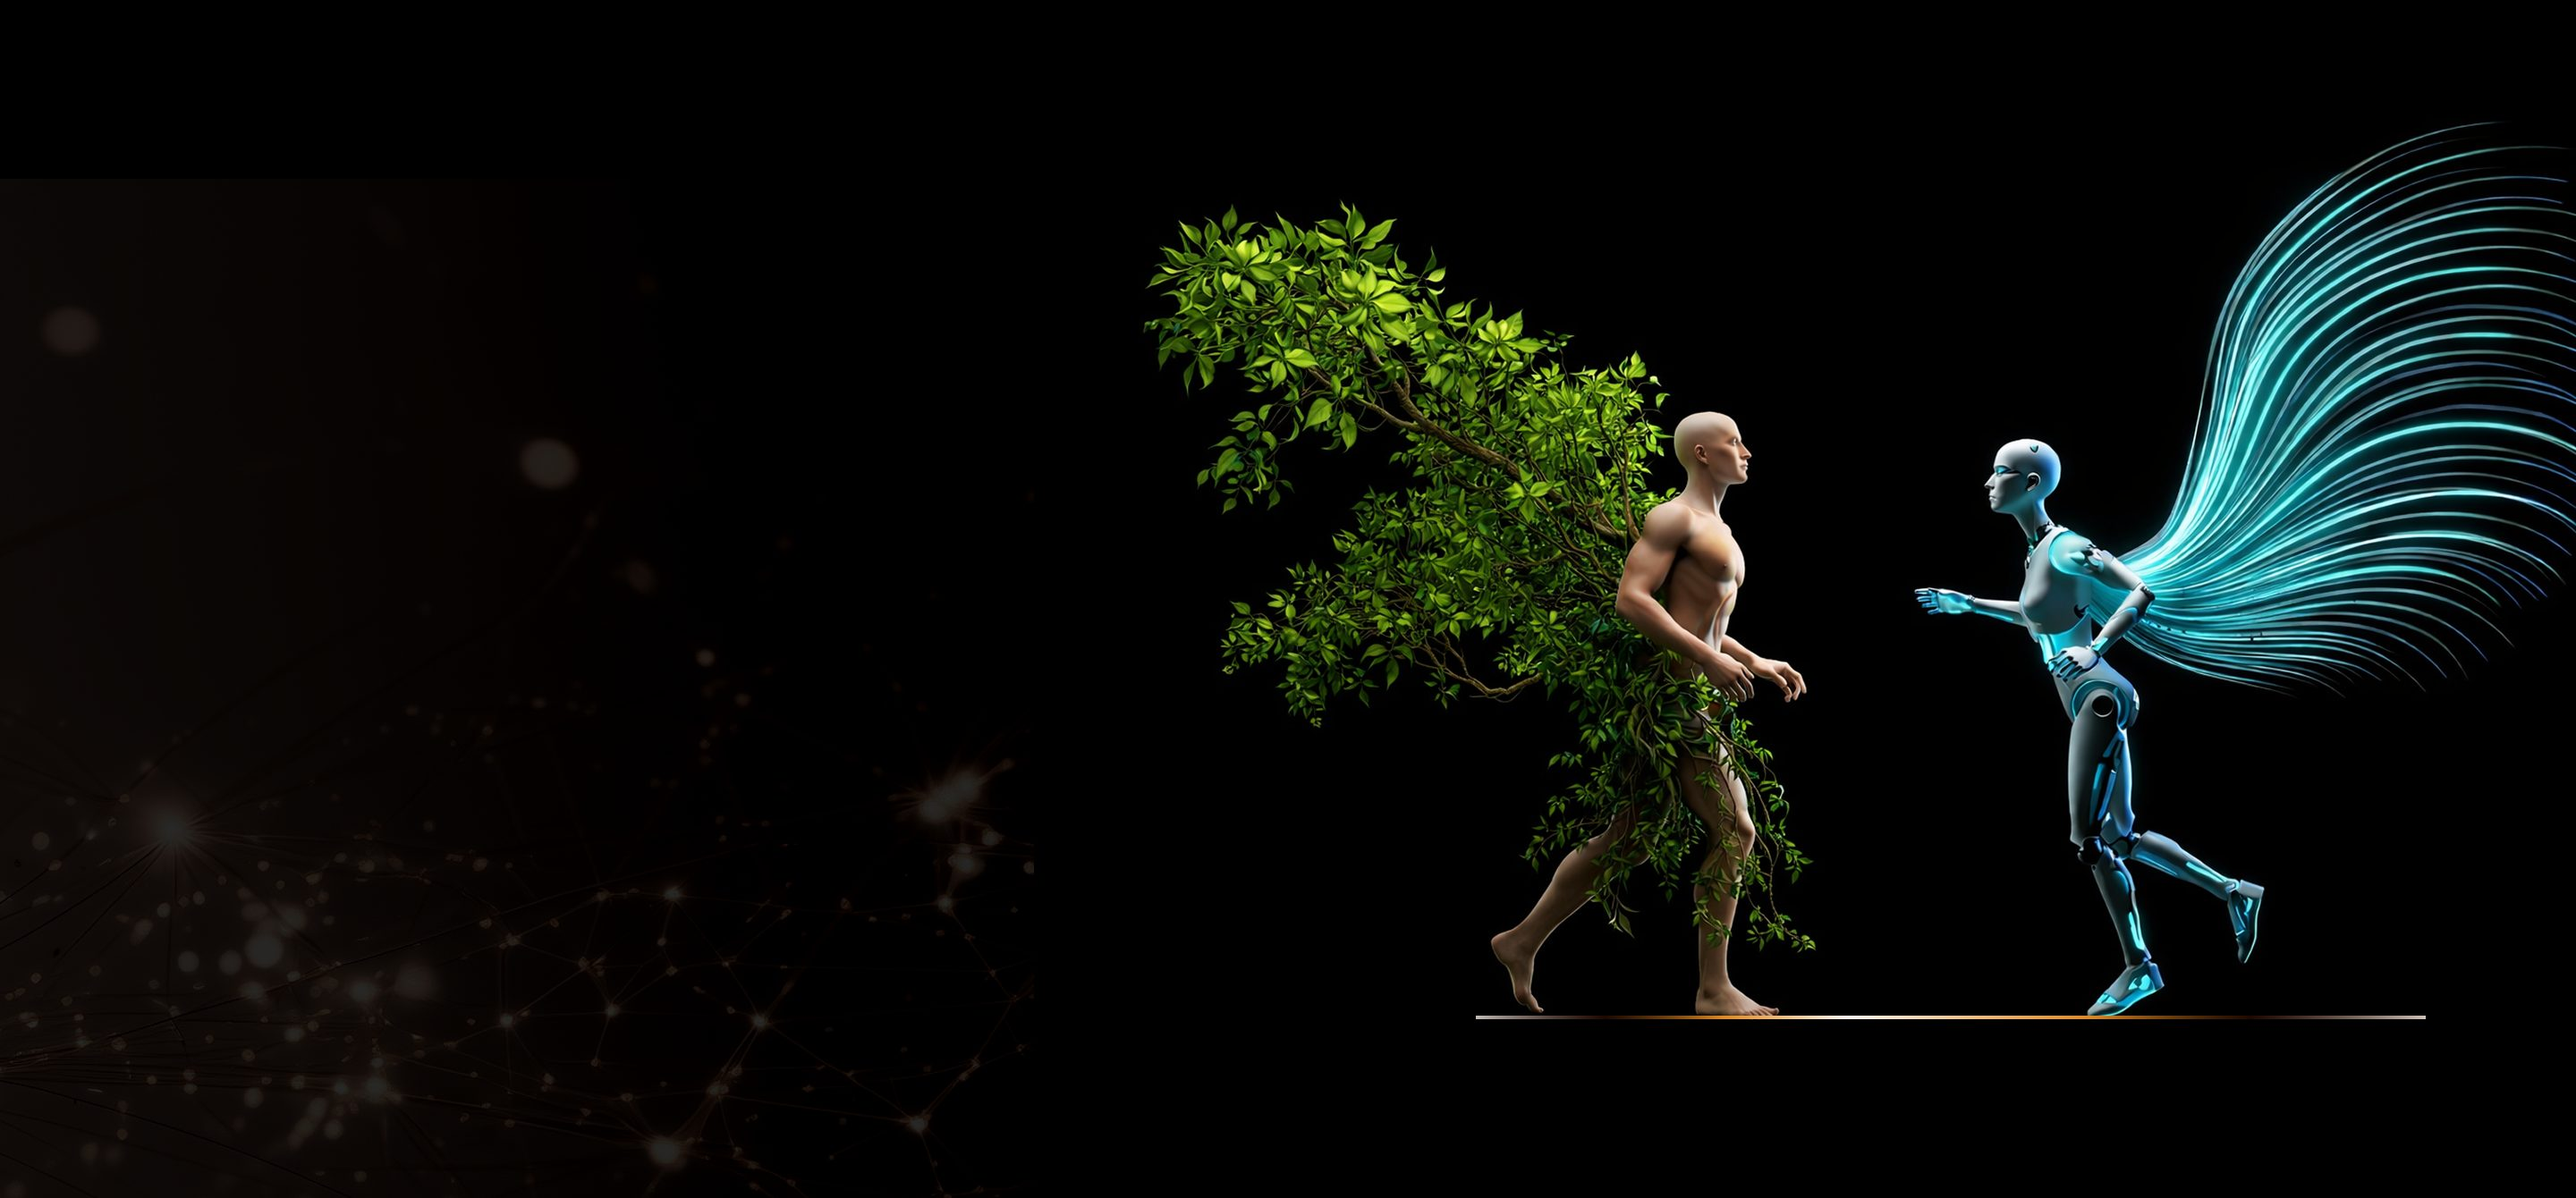
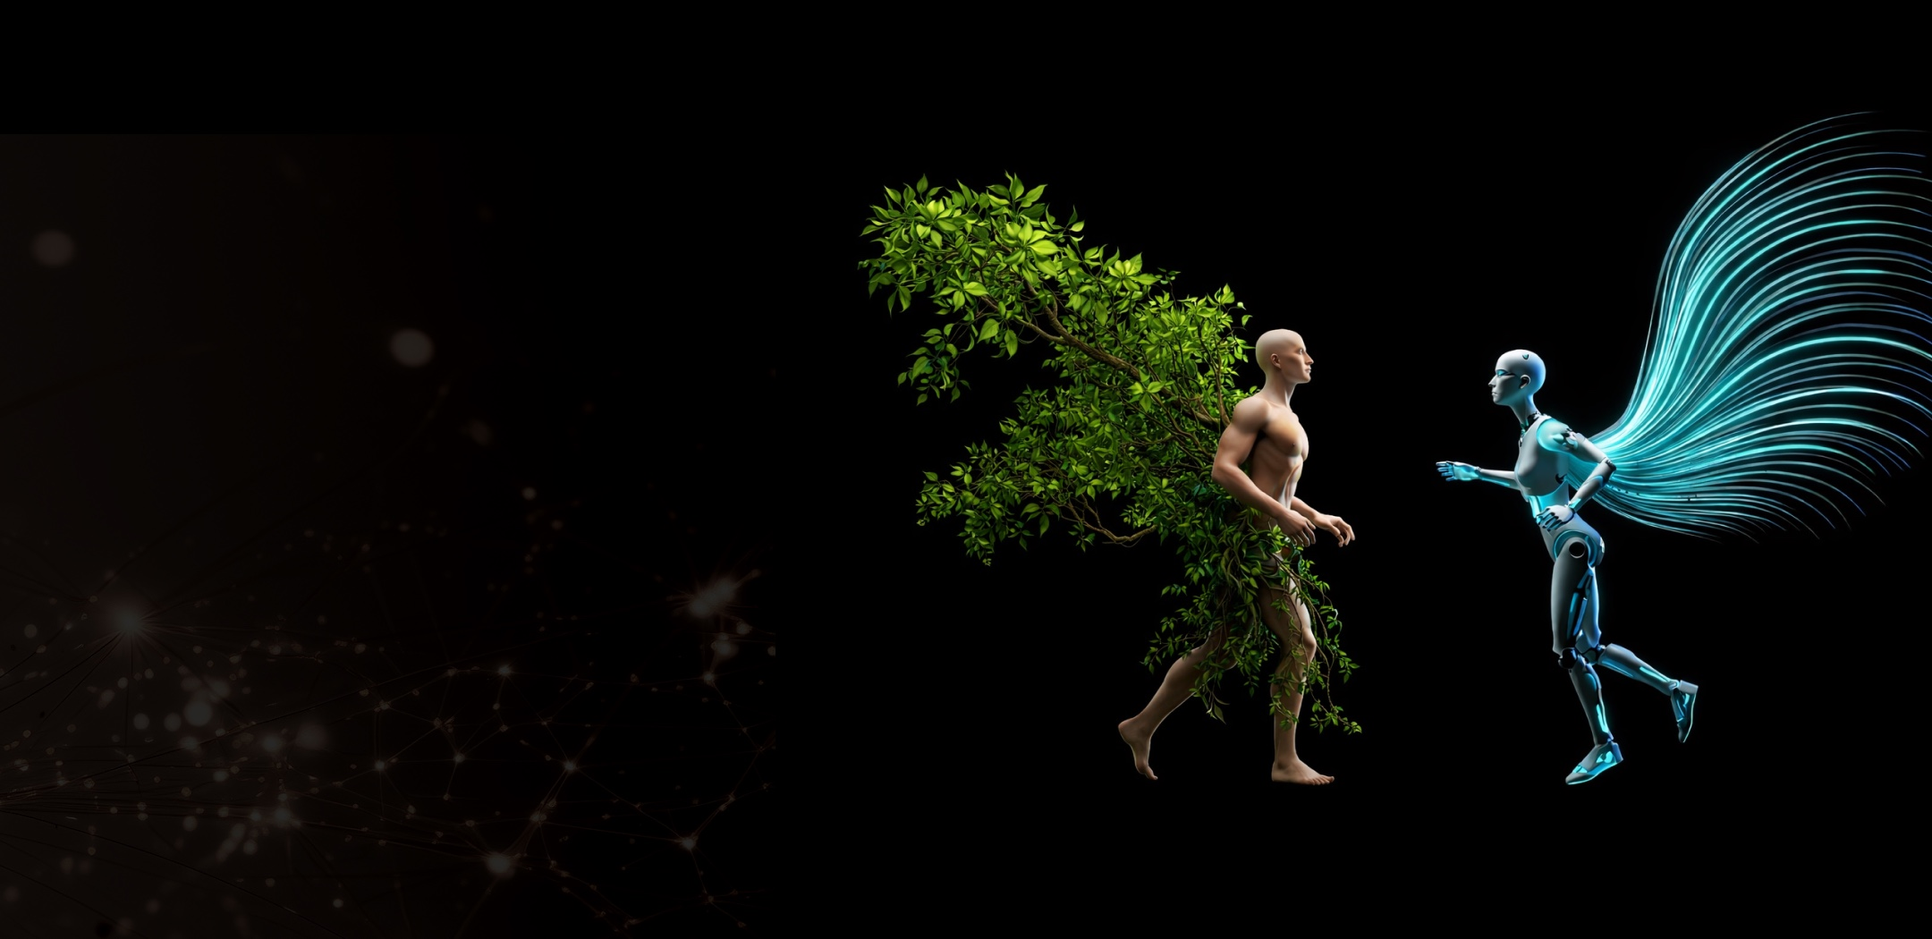
fix(desktop): replace s10 with Figma 314:432, fix s4 line, footer alignment + top gradient
- s10 desktop: replace per Figma node 314:432 — clean bg image (no baked-in line),
  staircase lines with step-3 spanning 1062px past the figures
- s4 desktop: restore evolution divider line — file was SVG mislabeled as .png,
  copy to .svg and switch to plain <img> to bypass Next/image PNG validation
- s12 footer: align headline + tagline left edge with the book button (10.69%);
  add em-dash separators per Figma 1:517 ("REALITY INTELLIGENCE — ВАШ НАВЫК",
  "Состояние — Новая валюта"); add top gradient overlay (Figma 1:519/1:520)

diff --git a/src/app/globals.css b/src/app/globals.css
@@ -1886,7 +1886,7 @@ img.desktop-only { display: block !important; }
   z-index: 1;
   pointer-events: none;
 }
-#s4 .s4-line img { object-fit: cover; }
+#s4 .s4-line img { position: absolute; inset: 0; width: 100%; height: 100%; object-fit: cover; display: block; }
 
 #s4 .s4-col {
   position: absolute;
@@ -2362,82 +2362,76 @@ img.desktop-only { display: block !important; }
   line-height: 1.2;
 }
 
-/* ===== S10 - Unity ===== */
-#s10 {
-  background: #000;
-}
-
-.s10-bg {
-  position: absolute;
-  inset: 0;
-  z-index: 0;
-  pointer-events: none;
-}
-
-/* S10 — Figma 1440×700, node 1:156 */
+/* ===== S10 — Unity (Figma 1440×700, node 1:156) ===== */
+#s10 { background: #000; }
 #s10.s10-figma { background: #000; }
-#s10 .s10-bg-img { position: absolute; inset: 0; overflow: hidden; pointer-events: none; z-index: 0; }
-#s10 .s10-bg-img img { position: absolute; top: 2.05%; left: -0.13%; height: 97%; width: 100%; object-fit: cover; display: block; }
-#s10 .s10-header {
-  position: absolute;
-  z-index: 2;
-  top: 14.29%;             /* 100/700 */
-  left: 10.76%;            /* 155/1440 */
-  width: 33.06%;           /* 476/1440 */
-  height: 14.86%;          /* 104/700 */
-  display: flex;
-  flex-direction: column;
-  gap: 10px;
-  color: #fff5ef;
+
+/* — desktop wrapper — */
+#s10 .s10-d { position: absolute; inset: 0; }
+
+/* — background image (Figma node 314:433, asset matches section aspect 1440/700) — */
+#s10 .s10-d-bg { position: absolute; inset: 0; overflow: hidden; pointer-events: none; z-index: 0; }
+#s10 .s10-d-bg img {
+  position: absolute; inset: 0;
+  width: 100%; height: 100%;
+  object-fit: cover; display: block;
 }
-#s10 .s10-title {
-  margin: 0;
-  font-family: var(--font-heading);
-  font-weight: 600;
-  font-size: 52px;
-  line-height: 1;
-  text-transform: uppercase;
-  color: #fff5ef;
-  white-space: nowrap;
+
+/* — title (Figma node 314:444) — */
+#s10 .s10-d-title {
+  position: absolute; z-index: 2;
+  top: 14.14%;                       /* 99/700 */
+  left: calc(50% - 23.92vw);        /* calc(50% - 344.5/1440*100) */
+  display: flex; flex-direction: column; gap: 0.69vw; /* 10/1440 */
 }
-#s10 .s10-intro {
-  margin: 0;
-  font-family: var(--font-body);
-  font-weight: 500;
-  font-size: 18px;
-  line-height: 1;
-  color: #fff5ef;
+#s10 .s10-d-h2 {
+  margin: 0; font-family: var(--font-heading); font-weight: 600;
+  font-size: 3.61vw; line-height: 1; /* 52/1440 */
+  text-transform: uppercase; white-space: nowrap; color: #fff5ef;
 }
-#s10 .s10-step {
-  position: absolute;
-  z-index: 2;
-  width: 38.54vw;        /* 555/1440 */
-  display: flex;
-  flex-direction: column;
+#s10 .s10-d-intro {
+  margin: 0; font-family: var(--font-body); font-weight: 500;
+  font-size: 1.25vw; line-height: 1; color: #fff5ef; /* 18/1440 */
+}
+
+/* — staircase steps (Figma nodes 314:441 / 314:438 / 314:434) — */
+#s10 .s10-d-step {
+  position: absolute; z-index: 2;
+  display: flex; flex-direction: column;
+  gap: 1.39vw;                       /* 20/1440 */
+}
+#s10 .s10-d-text {
+  margin: 0; width: 22.57vw;        /* 325/1440 */
+  font-family: var(--font-body); font-weight: 500;
+  font-size: 1.25vw; line-height: 1.2; color: #fff5ef; /* 18/1440 */
+}
+#s10 .s10-d-line {
+  position: relative; width: 100%; aspect-ratio: 1110/4; flex-shrink: 0;
+}
+#s10 .s10-d-line img { position: absolute; inset: 0; width: 100%; height: 100%; object-fit: cover; }
+
+/* steps 1 & 2 — width 555, text centered in wrapper */
+#s10 .s10-d-step--1,
+#s10 .s10-d-step--2 {
+  width: 38.54vw;                    /* 555/1440 */
   align-items: center;
-  gap: 1.39vw;           /* 20/1440 */
 }
-#s10 .s10-step__text {
-  margin: 0;
-  width: 22.57vw;        /* 325/1440 */
-  font-family: var(--font-body);
-  font-weight: 500;
-  font-size: 1.25vw;     /* 18/1440 */
-  line-height: 1.2;
-  color: #fff5ef;
-  text-align: left;
+
+/* step 3 — width 1062, items-start; inner text wrapper centers text in 555 */
+#s10 .s10-d-step--3 {
+  width: 73.75vw;                    /* 1062/1440 */
+  align-items: flex-start;
 }
-#s10 .s10-step__line {
-  position: relative;
-  width: 100%;
-  aspect-ratio: 1110 / 4;
+#s10 .s10-d-step--3 .s10-d-text-wrap {
+  display: flex; flex-direction: column; align-items: center;
+  width: 38.54vw;                    /* 555/1440 */
   flex-shrink: 0;
 }
-#s10 .s10-step__line img { object-fit: cover; }
-/* Figma S10 staircase — all px → vw so steps scale with the section */
-#s10 .s10-step-1 { left: 2.71vw;  top: 46.14%; }   /* 39/1440,  323/700 */
-#s10 .s10-step-2 { left: 10.69vw; top: 60.71%; }   /* 154/1440, 425/700 */
-#s10 .s10-step-3 { left: 17.99vw; top: 75.29%; }   /* 259/1440, 527/700 */
+
+/* staircase positions (Figma 1440×700) */
+#s10 .s10-d-step--1 { left: 2.71vw;  top: 49.14%; }  /* 39/1440,  344/700 */
+#s10 .s10-d-step--2 { left: 10.69vw; top: 60.71%; }  /* 154/1440, 425/700 */
+#s10 .s10-d-step--3 { left: 17.99vw; top: 75.29%; }  /* 259/1440, 527/700 */
 
 /* ===== S11 — Programs (Figma 1440×820, node 1:170) ===== */
 #s11.s11-figma { background: #000; }
@@ -2665,14 +2659,29 @@ img.desktop-only { display: block !important; }
 #s12.s12-figma .s12-bg { position: absolute; inset: 0; pointer-events: none; z-index: 0; }
 #s12.s12-figma .s12-bg img { object-fit: cover; }
 
+/* Top gradient overlay — Figma nodes 1:519 + 1:520 (two stacked 201px gradients,
+   black at top fading to transparent ~40.6% of section height). Double-stacked
+   linear-gradient backgrounds reproduce Figma's stronger darkening. */
+#s12.s12-figma::before {
+  content: '';
+  position: absolute;
+  top: 0; left: 0; right: 0;
+  height: 40.61%;            /* 201/495 */
+  background:
+    linear-gradient(to bottom, #000 0%, rgba(0,0,0,0) 100%),
+    linear-gradient(to bottom, #000 0%, rgba(0,0,0,0) 100%);
+  pointer-events: none;
+  z-index: 1;
+}
+
 /* All footer positions expressed as % of the 1440×495 design so they
    scale correctly with the section (and survive browser zoom). */
 #s12.s12-figma .s12-headline-block {
   position: absolute;
   z-index: 2;
   top: 28.99%;             /* center y = 143.5/495 */
-  left: 28.82%;            /* center x = 415/1440 */
-  transform: translate(-50%, -50%);
+  left: 10.69%;            /* 154/1440 — same left edge as the book button below */
+  transform: translateY(-50%);
   display: flex;
   flex-direction: column;
   gap: 20px;

diff --git a/src/components/UnitySection.tsx b/src/components/UnitySection.tsx
@@ -1,5 +1,4 @@
 'use client';
-import Image from 'next/image';
 import { useTranslation } from '@/components/LanguageProvider';
 
 export default function UnitySection() {
@@ -8,33 +7,38 @@ export default function UnitySection() {
   return (
     <section id="s10" className="section s10-figma">
 
-      {/* ── Desktop ── */}
-      <div className="s10-bg-img desktop-only">
-        {/* eslint-disable-next-line @next/next/no-img-element */}
-        <img src="/images/backgrounds/bg-s10-desktop.jpg" alt="" />
-      </div>
-
-      <div className="s10-header desktop-only">
-        <h2 className="s10-title">{tr('s10_title_1')} {tr('s10_title_2')}</h2>
-        <p className="s10-intro">{tr('s10_intro')}</p>
-      </div>
-
-      <div className="s10-step s10-step-1 desktop-only">
-        <p className="s10-step__text">{tr('s10_item1')}</p>
-        <div className="s10-step__line" aria-hidden="true">
-          <Image src="/images/content/s10-line.png" alt="" fill sizes="555px" />
+      {/* ── Desktop (Figma 1440×700, node 1:156) ── */}
+      <div className="s10-d desktop-only">
+        <div className="s10-d-bg" aria-hidden="true">
+          {/* eslint-disable-next-line @next/next/no-img-element */}
+          <img src="/images/backgrounds/bg-s10-desktop.jpg" alt="" />
         </div>
-      </div>
-      <div className="s10-step s10-step-2 desktop-only">
-        <p className="s10-step__text">{tr('s10_item2')}</p>
-        <div className="s10-step__line" aria-hidden="true">
-          <Image src="/images/content/s10-line.png" alt="" fill sizes="555px" />
+        <div className="s10-d-title">
+          <h2 className="s10-d-h2">{tr('s10_title_1')} {tr('s10_title_2')}</h2>
+          <p className="s10-d-intro">{tr('s10_intro')}</p>
         </div>
-      </div>
-      <div className="s10-step s10-step-3 desktop-only">
-        <p className="s10-step__text">{tr('s10_item3')}</p>
-        <div className="s10-step__line" aria-hidden="true">
-          <Image src="/images/content/s10-line.png" alt="" fill sizes="555px" />
+        <div className="s10-d-step s10-d-step--1">
+          <p className="s10-d-text">{tr('s10_item1')}</p>
+          <div className="s10-d-line" aria-hidden="true">
+            {/* eslint-disable-next-line @next/next/no-img-element */}
+            <img src="/images/content/s10-line.png" alt="" />
+          </div>
+        </div>
+        <div className="s10-d-step s10-d-step--2">
+          <p className="s10-d-text">{tr('s10_item2')}</p>
+          <div className="s10-d-line" aria-hidden="true">
+            {/* eslint-disable-next-line @next/next/no-img-element */}
+            <img src="/images/content/s10-line.png" alt="" />
+          </div>
+        </div>
+        <div className="s10-d-step s10-d-step--3">
+          <div className="s10-d-text-wrap">
+            <p className="s10-d-text">{tr('s10_item3')}</p>
+          </div>
+          <div className="s10-d-line" aria-hidden="true">
+            {/* eslint-disable-next-line @next/next/no-img-element */}
+            <img src="/images/content/s10-line.png" alt="" />
+          </div>
         </div>
       </div>
 

diff --git a/src/lib/translations.ts b/src/lib/translations.ts
@@ -108,9 +108,9 @@ const t = {
     s11_btn: 'Перейти',
     // S12 Footer
     s12_headline_hl: 'Reality Intelligence',
-    s12_headline: 'Ваш навык',
+    s12_headline: ' — Ваш навык',
     s12_tagline: 'Коды реальности — это доступ к возможностям мира',
-    s12_currency_title: 'Состояние\nновая валюта',
+    s12_currency_title: 'Состояние — Новая валюта',
     s12_currency_body: 'В эпоху AI самой ценной валютой становится ваше состояние',
     s12_book: 'Читать книгу',
     s12_dna_book: 'ДНК Реальности',
@@ -234,9 +234,9 @@ const t = {
     s11_c3_sub: 'Робота з перевантаженням, відповідальністю та високим рівнем впливу',
     s11_btn: 'Перейти',
     s12_headline_hl: 'Reality Intelligence',
-    s12_headline: 'Ваш навик',
+    s12_headline: ' — Ваш навик',
     s12_tagline: 'Коди реальності — це доступ до можливостей світу',
-    s12_currency_title: 'Стан\nнова валюта',
+    s12_currency_title: 'Стан — Нова валюта',
     s12_currency_body: 'В епоху AI найціннішою валютою стає ваш стан',
     s12_book: 'Читати книгу',
     s12_dna_book: 'ДНК Реальності',
@@ -360,9 +360,9 @@ const t = {
     s11_c3_sub: 'Working with overload, responsibility and high levels of influence',
     s11_btn: 'Go',
     s12_headline_hl: 'Reality Intelligence',
-    s12_headline: 'Is your skill',
+    s12_headline: ' — Is your skill',
     s12_tagline: 'Reality codes are access to the possibilities of the world.',
-    s12_currency_title: 'State\nnew currency',
+    s12_currency_title: 'State — New currency',
     s12_currency_body: 'In the age of AI, your state becomes the most valuable currency.',
     s12_book: 'Read the book',
     s12_dna_book: 'DNA of Reality',

diff --git a/src/components/IntelligenceSection.tsx b/src/components/IntelligenceSection.tsx
@@ -16,7 +16,8 @@ export default function IntelligenceSection() {
       <h2 className="s4-title desktop-only">{tr('s4_title')}</h2>
 
       <div className="s4-line desktop-only" aria-hidden="true">
-        <Image src="/images/content/s4-line.png" alt="" fill sizes="100vw" />
+        {/* eslint-disable-next-line @next/next/no-img-element */}
+        <img src="/images/content/s4-line.svg" alt="" />
       </div>
 
       <article className="s4-col s4-col-iq desktop-only">
